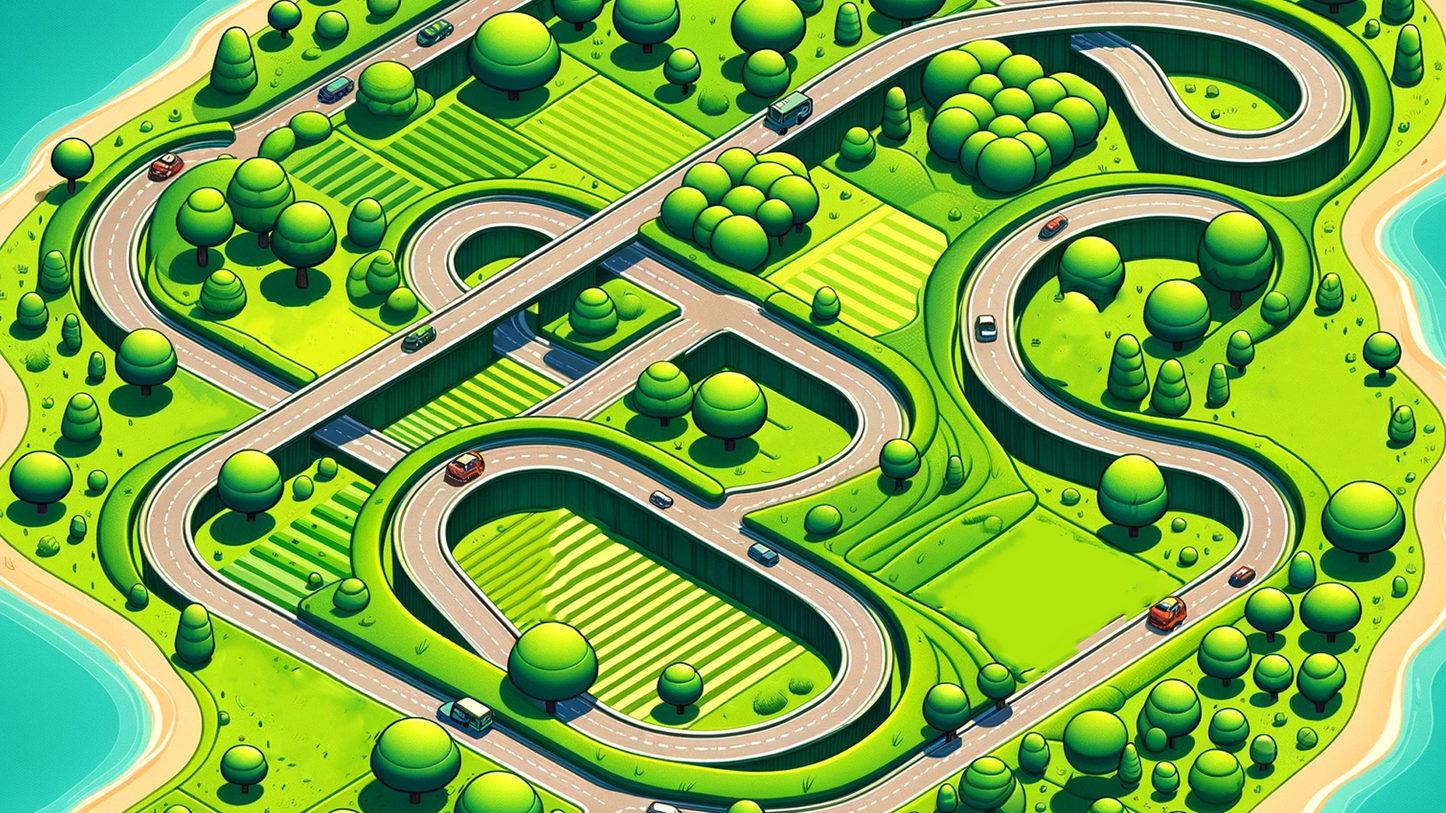
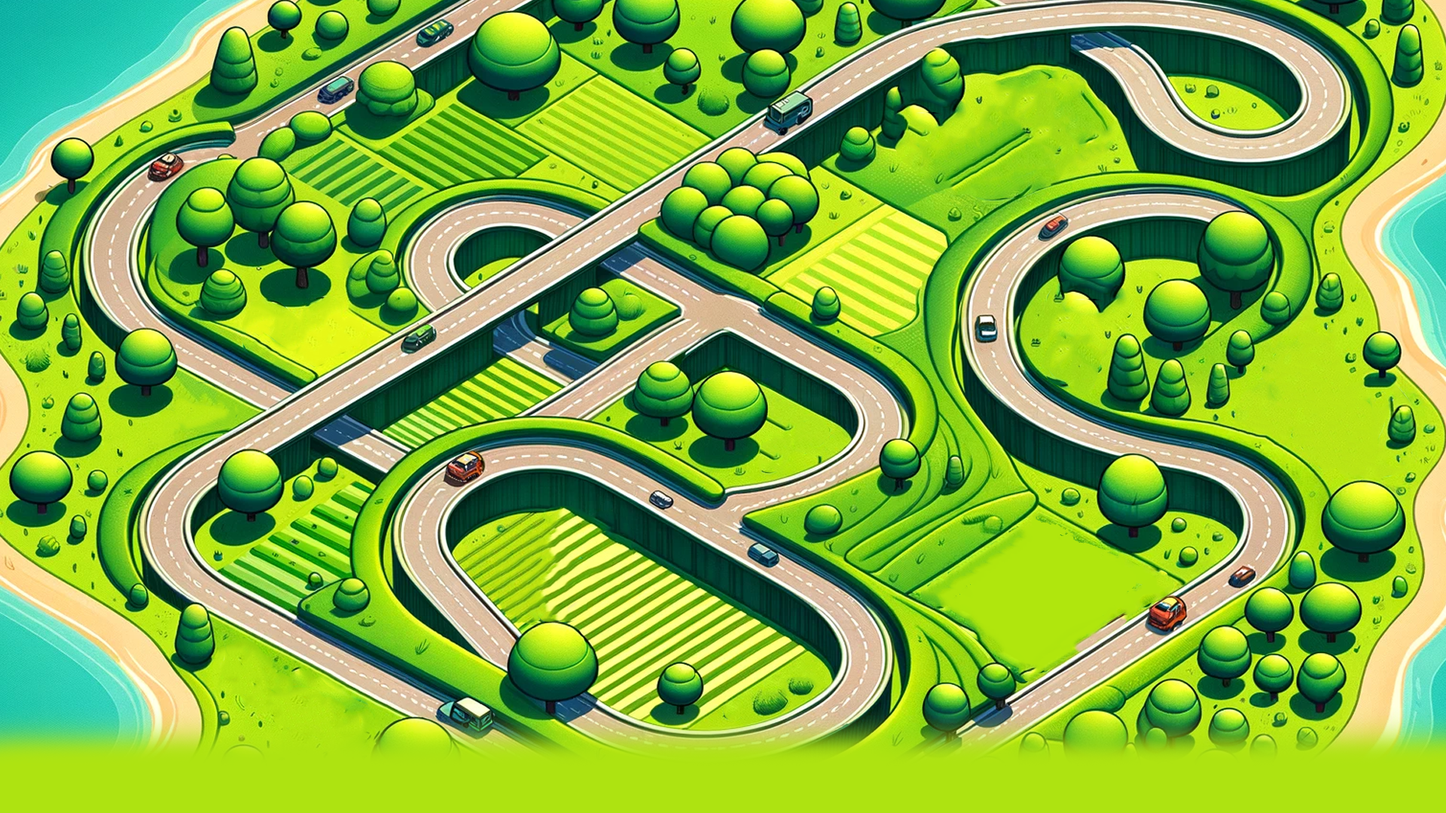
update images and added a footer

Changed region(s): [[0.0, 0.8861, 1.0, 1.0], [0.5938, 0.0306, 0.7812, 0.2444]]

diff --git a/overworld/styles.css b/overworld/styles.css
@@ -1,11 +1,19 @@
+body {
+     background-color: hsl(75, 86%, 48%);
+     margin: 0px;
+     width: 100%;
+}
+
+
 .map-container {
     background: url('images/body.png') no-repeat center center;
     background-size: contain;
+    background-color: #aee311;
     position: relative;
     width: 100%; /* Full width of the viewport */
     height: 0; /* Set height to 0 */
     padding-bottom: 56.25%; /* For a 16:9 aspect ratio */
-    margin: 0%;
+    margin: 0px;
 }
 
 .map-container a {
@@ -29,7 +37,7 @@
      }
 .map-container .mcdonalds-shop { top: 30%; left: 40%; 
      }
-.map-container .discord { top: 45%; left: 80%; 
+.map-container .discord { top: 50%; left: 90%; 
      } /* Adjusted to percentage */
 .map-container .opensea { top: 70%; left: 75%; 
      } /* Adjusted to percentage */
@@ -41,7 +49,7 @@
      } /* Adjusted to percentage */
 .map-container .sketchfab { top: 75%; left: 50%; 
      } /* Adjusted to percentage */
-.map-container .omi-diner { top: 10%; left: 80%; 
+.map-container .omi-diner { top: 15%; left: 70%; 
      } /* Adjusted to percentage */
 .map-container .internet-archive { top: 30%; left: 60%; 
      } /* Adjusted to percentage */
@@ -51,7 +59,7 @@
      } /* Adjusted to percentage */
 .map-container .snapshot { top: 17%; left: 40%; 
      } /* Adjusted to percentage */
-.map-container .metafactory-truck { top: 38%; left: 40%; 
+.map-container .metafactory-truck { top: 85%; left: 20%; 
      } /* Adjusted to percentage */
 .map-container .hyperfy-hq { top: 68%; left: 38%; 
      } /* Adjusted to percentage */
@@ -101,3 +109,100 @@
  .map-container a:hover img {
      filter: drop-shadow(0 0 10px rgba(255, 255, 255, 0.6)); /* Creates a glowing effect */
  }
+
+
+         /* HUD styles */
+         .hud {
+          position: fixed;
+          bottom: 1vw; /* Distance from the bottom */
+          left: 50%;
+          transform: translateX(-50%);
+          display: flex;
+          align-items: center;
+          gap: 1em; /* Space between badges */
+      }
+
+      .badge {
+          width: 3vw; /* Adjust size as needed */
+          filter: grayscale(1); /* Desaturate the badge */
+          opacity: 0.8; /* Make it slightly transparent */
+          position: relative; /* To position the tooltip */
+          z-index: 1000;  /* ensure it's above other elements */
+      }
+
+      .badge:hover {
+          filter: grayscale(0); /* Fully colored on hover */
+          opacity: 1; /* Fully opaque on hover */
+      }
+
+      .badge::before {
+          content: attr(data-tooltip); /* Use data attribute for tooltip text */
+          position: absolute;
+          bottom: 100%; /* Place it above the badge */
+          left: 50%;
+          transform: translateX(-50%) translateY(10px);  /* combining the two transforms */
+          background-color: rgba(0, 255, 0, 0.9); /* Green background with slight transparency */
+          padding: 0.2em 0.5em;
+          border-radius: 5px;
+          font-size: 0.8em;
+          white-space: nowrap; /* Prevent the text from wrapping */
+         
+      }
+
+      .badge:hover::before {
+          opacity: 1;
+         
+      }
+
+      .ascii-art {
+          text-align: center;
+        }
+
+        footer {
+          text-align: center;
+          color: pink;
+          padding: 10px 0;
+        }
+
+        .links {
+          display: flex;
+          justify-content: center; /* Center items horizontally */
+          flex-wrap: wrap;
+          gap: 5px; /* Add space between the items */
+          padding-bottom: 100px; /* Adjusted padding for better spacing */
+          list-style: none; /* Remove default list styling if it's a list */
+        }
+        
+        .links a {
+          display: block;
+          width: 30%; /* Adjust width for better spacing */
+          text-align: center;
+          padding: 2px; /* Increased padding for a better touch area */
+          color: rgb(0, 0, 0); /* Default color */
+          border: 2px solid transparent; /* For a subtle hover effect */
+          border-radius: 5px; /* Rounded corners */
+          text-decoration: none; /* Remove underline from links */
+          transition: all 0.3s ease; /* Smooth transition for hover effects */
+        }
+        
+        .links a:hover {
+          background-color: rgba(14, 104, 14, 0.151); /* Slight background on hover */
+          border-color: #ddd; /* Subtle border color change on hover */
+        }
+        
+        .links a.cyan {
+          background-color: #e0f7fa; /* Light cyan background */
+        }
+        
+        .links a.pink {
+          background-color: #fce4ec; /* Light pink background */
+        }
+        
+
+        .iframe-placeholder {
+          width: 100%;
+          height: 640px;
+          background-color: #00000f;
+          position: relative;
+          top: 100%;
+        }

diff --git a/overworld/index.html b/overworld/index.html
@@ -11,7 +11,7 @@
     <div class="map-container">
         <!-- All your <a> tags go here -->
     
-        <a href="safe (multisig bank)" class="gnosis-safe"><img src="images/truck.png"><span class="tooltip">Gnosis Safe Info</span></a>
+        <a href="safe (multisig bank)" class="gnosis-safe"><img src="images/gnosis.png"><span class="tooltip">Gnosis Safe Info</span></a>
 
         <a href="https://sketchfab.com/3d-models/metafactory-truck-101bd0d014fd45ab90e7552aae89375d" class="metafactory-truck"><img src="images/truck.png"><span class="tooltip">Metafactory Truck</span></a>
 
@@ -40,6 +40,51 @@
         <a href="https://sketchfab.com/3d-models/m3tv-soundstage-6206325ff5c643c9b1dd2ce5aadbec19" class="m3tv-soundstage"><img src="images/studio.png"><span class="tooltip">M3TV Soundstage</span></a>
 
     </div>
+
+    <!-- HUD with badges -->
+    <div class="hud">
+        <img src="images/1.png" alt="Badge 1" class="badge" data-tooltip="This is Badge 1">
+        <img src="images/2.png" alt="Badge 2" class="badge" data-tooltip="This is Badge 2">
+        <img src="images/3.png" alt="Badge 3" class="badge" data-tooltip="This is Badge 3">
+        <img src="images/4.png" alt="Badge 4" class="badge" data-tooltip="This is Badge 4">
+        <img src="images/5.png" alt="Badge 5" class="badge" data-tooltip="This is Badge 5">
+        <img src="images/6.png" alt="Badge 6" class="badge" data-tooltip="This is Badge 6">
+        <img src="images/7.png" alt="Badge 7" class="badge" data-tooltip="This is Badge 7">
+        <a href="https://discord.gg/m3-org" target="_blank"><img src="images/8.png" alt="Badge 8" class="badge" data-tooltip="This is Badge 8"></a>
+        <a href="https://zora.co/collect/eth:0xb67ff46dfde55ad2fe05881433e5687fd1000312" target="_blank"><img src="images/9.png" alt="Badge 9" class="badge" data-tooltip="This is Badge 9"></a>
+        <a href="https://github.com/M3-org/charter" target="_blank"><img src="images/10.png" alt="Badge 10" class="badge" data-tooltip="This is Badge 10"></a>
+        <!-- Add more badges as needed -->
+    </div>
+
+    <div class="links">
+        <a href="https://github.com/m3-org" class="ping">M3 GitHub</a>
+        <a href="https://discord.gg/m3-org" class="ping">M3 Discord</a>
+        <a href="https://hackmd.io/@xr/book" class="ping">M3 Research</a>
+        <a href="https://twitter.com/m3org" class="ping">M3 Twitter</a>
+        <a href="https://github.com/m3-org/avatar-interop#Calendar" class="ping">M3 Calendar</a>
+        <a href="https://hackmd.io/@xr/vprod" class="ping">Virtual Production</a>
+        <a href="https://juicebox.money/@openvoxels" class="ping">OpenVoxels</a>
+        <a href="https://hyperfy.io/m3" class="ping">M3 HQ</a>
+        <a href="https://tv.m3org.com/" class="ping">M3TV</a>
+        <a href="https://gm3.github.io/boomboxheads-v2/" class="ping">Boomboxheads V2</a>
+        <a href="https://m3org.com/mart/" class="ping">M3 Merch</a>
+        <a href="https://hyperfy.io/" class="ping">Hyperfy</a>
+        <a href="https://3ov.xyz/" class="ping">Three Object Viewer</a>
+        <a href="https://emotionull.art/" class="ping">Phettaverse</a>
+        <a href="https://github.com/jbaicoianu/janusweb" class="ping">JanusWeb</a>
+        <a href="https://github.com/webaverse" class="ping">Webaverse</a>
+        <a href="https://cryptoavatars.io/" class="ping">Cryptoavatars</a>
+        <a href="https://m3org.com/mfshop" class="ping">MetaFactory</a>
+        <a href="https://www.unavi.xyz/" class="ping">UNAVI</a>
+        <a href="https://www.zesty.market/" class="ping">Zesty Market</a>
+        <a href="https://anarchyarcade.com/" class="ping">Anarchy Arcade</a>
+        <a href="https://framevr.io/omi" class="ping">OMI group</a>
+        <a href="https://hyperfy.io/msf" class="ping">Metaverse Standards Forum</a>
+        <a href="https://twitter.com/neon_buidl" class="ping">Neon Buidl</a>
+        <a href="https://uncannyalley.io" class="ping">Uncanny Alley</a>
+      </div>
+      
+      
 
 </body>
 </html>
